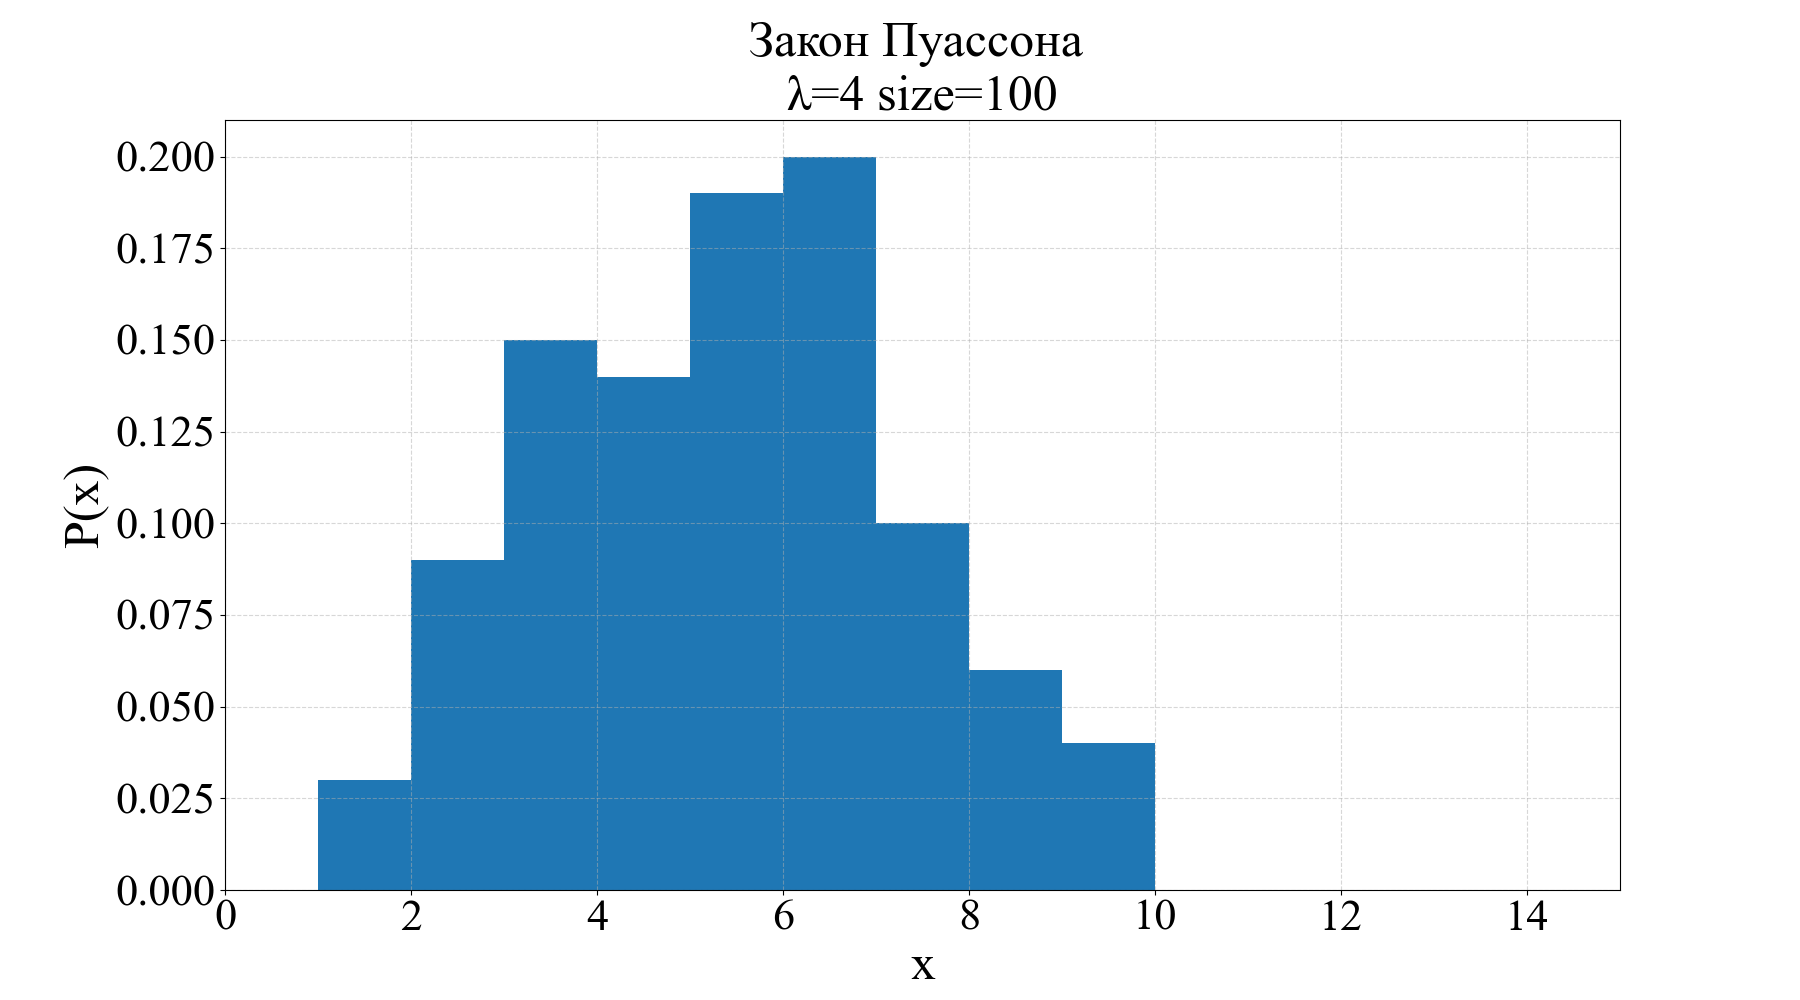
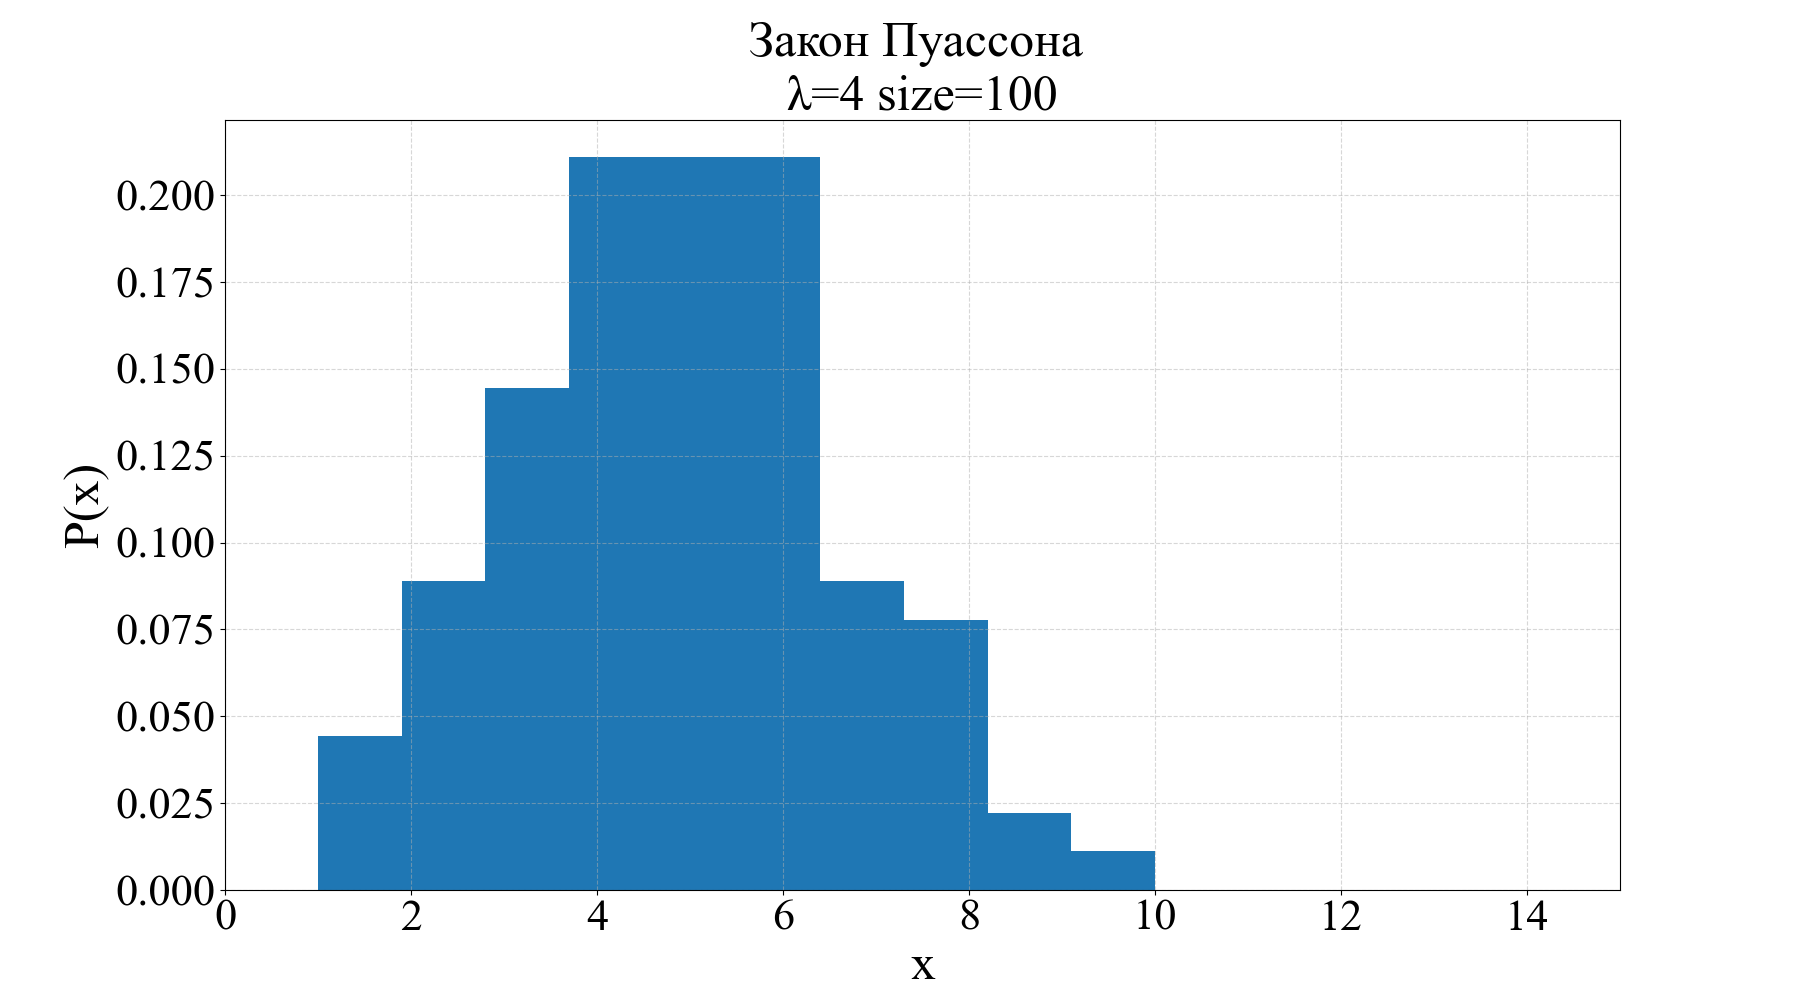
完成 卡方检验

diff --git a/003 - lab2+/main.py b/003 - lab2+/main.py
@@ -10,6 +10,7 @@
 import numpy as np
 import matplotlib.pyplot as plt
 from scipy.stats import chi2_contingency
+from scipy.stats import chisquare
 from scipy.stats import chi2
 import math
 
@@ -86,7 +87,7 @@ def plot_poisson_hist(arr_poisson: np.ndarray, save_path: str):
     :return:
     """
     plt.figure(figsize=(18, 10), dpi=100)
-    plt.hist(x=arr_poisson, bins=(arr_poisson.max() - arr_poisson.min()), density=True)
+    plt.hist(x=arr_poisson, bins=10, density=True)
     plt.grid(linestyle='--', alpha=0.5)
     plt.title('Закон Пуассона \n'
               'λ=4 size=100',
@@ -100,68 +101,27 @@ def plot_poisson_hist(arr_poisson: np.ndarray, save_path: str):
     plt.show()
 
 
-def chi2_independence(data: np.ndarray, alpha: float):
-    """
-    критерием Пирсона
-    假设检验重要知识
-    H0:A与B相互独立
-    H1：A与B不相互独立
-    若卡方值大于临界值，拒绝原假设，表示A与B不相互独立，A与B相关
-    函数中re返回为1表示拒绝原假设，0表示接受原假设
-
-    :param alpha: 置信度，用来确定临界值（уровнем значимости）
-    :param data: 数据，请使用 numpy.array 数组
-    :return:
-        chi_2 : 卡方值，也就是统计量
-        p     : P值（统计学名词），与置信度对比，也可进行假设检验，P值小于置信度，即可拒绝原假设
-        dof   : 自由度
-        re    : 判读变量，1表示拒绝原假设，0表示接受原假设
-        expctd: 原数据数组同维度的对应理论值
-    """
-    chi_2, p, dof, expctd = chi2_contingency(data)
-
-    cv = 0
-    if dof == 0:
-        print('自由度应该大于等于1')
-    elif dof == 1:
-        cv = chi2.isf(alpha * 0.5, dof)
-    else:
-        cv = chi2.isf(alpha * 0.5, dof-1)
-
-    if chi_2 > cv:
-        re = 1  # 表示拒绝原假设
-    else:
-        re = 0  # 表示接受原假设
-
-    return chi_2, p, dof, re, expctd
-
-
 if __name__ == '__main__':
+
     print('>' * 50, '\nirnpoi(mu=4, size=100):')
     arr_poi = irnpoi(mu=4, size=100)
-    print('\tmin: ', arr_poi.min(), '\n\tmax: ', arr_poi.max(), '\n')
+    print('\tmin: ', arr_poi.min(), '\n\tmax: ', arr_poi.max())
 
-    chi_2, p, dof, re, expctd = chi2_independence(alpha=0.05, data=[arr_poi, arr_poi])
-    print('【chi_2】卡方值：', chi_2, '\n',
-          '【p】P 值：', p, '\n',
-          '【dof】自由度：', dof, '\n',
-          '【re】判读变量：', re, '\n',
-          '【expctd】理论值：', expctd, '\n')
+    chi_2 = chisquare(arr_poi)
+    print('chi_2: ', chi_2[0])
+
     plot_poisson_hist(arr_poisson=arr_poi,
                       save_path='./result/1_irnpoi.png')
 
     ############################################################################
-    # print('\n\n', '>' * 50, '\nirnpoi(mu=4, size=100):')
-    # arr_psn = irnpsn(mu=4, size=100)
-    # print('\tmin: ', arr_psn.min(), '\n\tmax: ', arr_psn.max())
-    #
-    # chi_2, p, dof, re, expctd = chi2_independence(alpha=0.05, data=arr_psn)
-    # print('【chi_2】卡方值：', chi_2, '\n',
-    #       '【p】P 值：', p, '\n',
-    #       '【dof】自由度：', dof, '\n',
-    #       '【re】判读变量：', re, '\n',
-    #       '【expctd】理论值：', expctd, '\n')
-    # plot_poisson_hist(arr_poisson=arr_psn,
-    #                   save_path='./result/2_irnpsn.png')
+    print('\n\n', '>' * 50, '\nirnpoi(mu=4, size=100):')
+    arr_psn = irnpsn(mu=4, size=100)
+    print('\tmin: ', arr_psn.min(), '\n\tmax: ', arr_psn.max())
+
+    chi_2 = chisquare(arr_psn)
+    print('chi_2: ', chi_2[0])
+
+    plot_poisson_hist(arr_poisson=arr_psn,
+                      save_path='./result/2_irnpsn.png')
 
     pass
